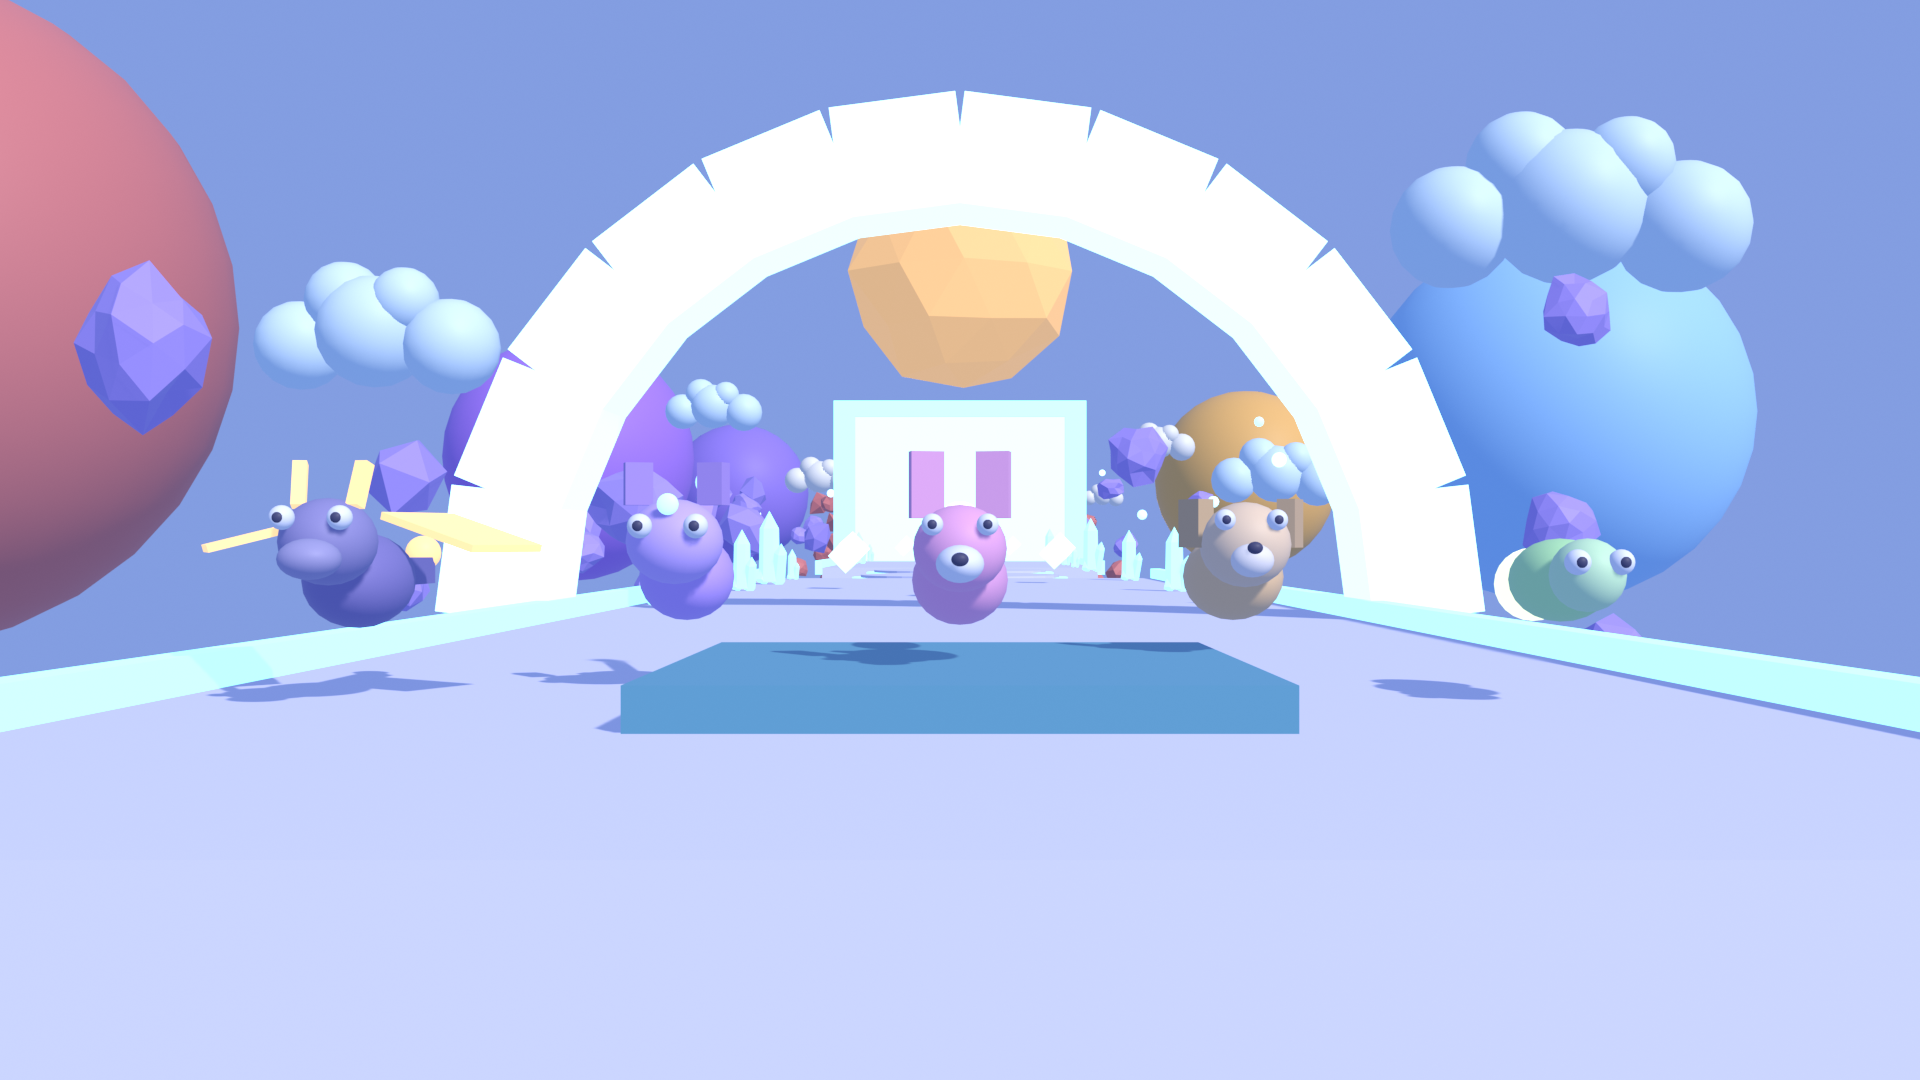
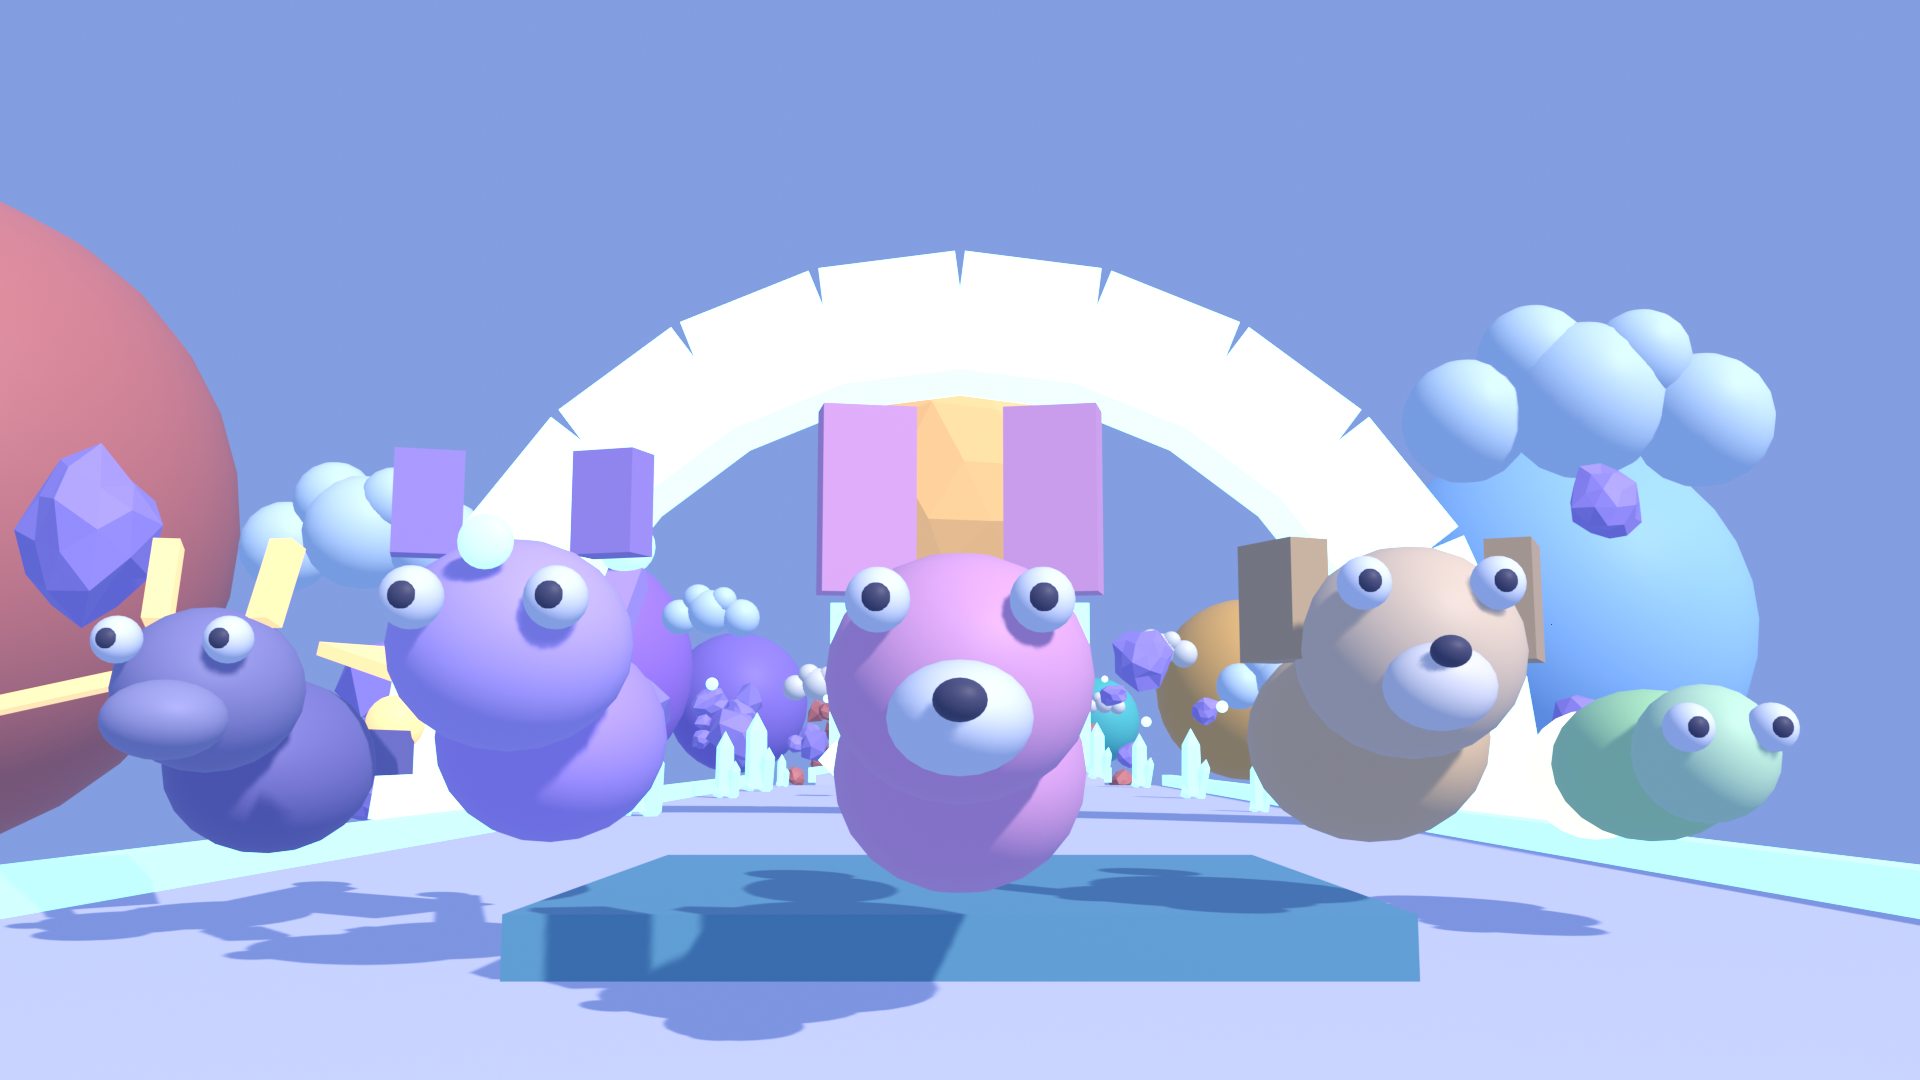
Renders: fixed companion hero shot, cropped collection shot, Aurora Reef shot; join toast for the weekly event
Claude-Session: https://claude.ai/code/session_01QYAiHaQucxxqAH1GBHQ5uW

diff --git a/blender/thumbnails/render_thumbs.py b/blender/thumbnails/render_thumbs.py
@@ -277,7 +277,7 @@ shots = {
     # runner and companion run toward a camera ahead of them (the companion's face is visible), the spawn arch behind them
     "v4_hero_companion": ((-7, Y + 5.5, 86), (0.5, Y + 5.8, 60), 32, (1920, 1080), (0, Y, 62), 0, "FRONTRUN:starfox"),
     "v5_hero_pup": ((-7, Y + 5.5, 86), (0.5, Y + 5.8, 60), 32, (1920, 1080), (0, Y, 62), 0, "FRONTRUN:cometpup"),
-    "v5_aurora_reef": ((26, Y + 16, gateZ[14] + 60), (0, Y + 4, gateZ[14] + 330), 28, (1920, 1080), None, 0, None),
+    "v5_aurora_reef": ((0, Y + 15, gateZ[14] + 30), (0, Y + 3, gateZ[14] + 300), 26, (1920, 1080), None, 0, None),
     "v4_mars_pup": ((18, Y + 11, gateZ[1] + 30), (0, Y + 2, gateZ[1] + 200), 26, (1920, 1080), (0, Y, gateZ[1] + 70), 2, "cometpup"),
     "v4_clouds_aerial": ((190, Y + 150, -150), (0, Y + 5, 800), 30, (1920, 1080), None, 0, None),
     "v4_collection": ((0, Y + 3.5, -52), (0, Y + 9, -10), 30, (1920, 1080), None, 0, "ALL"),
@@ -294,7 +294,7 @@ for name in want:
         n = len(comps)
         for k, cc in enumerate(comps):   # shallow V: the middle one is nearest, so the row fills the frame instead of leaving empty floor
             mid = (n - 1) / 2
-            extra += companion(cc, (k - mid) * 8.0, Y + 3.2 + (k % 2) * 0.5, -20 - (mid - abs(k - mid)) * 5, 2.3, face=-1)
+            extra += companion(cc, (k - mid) * 6.8, Y + 3.2 + (k % 2) * 0.5, -20 - (mid - abs(k - mid)) * 5, 2.3, face=-1)
     elif pet and pet.startswith("FRONT:"):   # a single companion facing the camera (icon)
         extra += companion(comp(pet[6:]), 0, Y + 4.2, -16, 2.2, face=-1)
     elif pet and pet.startswith("SIDERUN:"):   # side view: runner and companion run to the right, companion a little ahead and further from the camera

diff --git a/THUMBNAILS.md b/THUMBNAILS.md
@@ -96,3 +96,16 @@ Right after upload the game page showed the "processing" placeholder instead of 
 | (deleted) `v4_mars_pup` | rejected | The camera sat inside a rail and the frame was mostly flat color |
 
 The runner is still the blocky stand-in, and the companion models in Blender are approximations of the in-game primitives (proportions are close, shading and size in-engine will differ). Replace with real Studio captures once the update is live.
+
+
+## v5 renders (2026-11-03, Blender 4.0.2 in a Linux container; not uploaded)
+Same script (`blender/thumbnails/render_thumbs.py`), now with: a `RENDER_SCALE` env var for quick drafts (0.4 renders in about 8 min because the scene build dominates; full size about 12 min for 3 shots), a simple face on the stand-in runner, lens shift per shot, the 7th zone and 20 stages read from Config, and `FRONTRUN:` / `SIDERUN:` shot modes (runner plus companion). Run: `RENDER_OUT=promo/renders blender --background --factory-startup --python blender/thumbnails/render_thumbs.py -- v4_hero_companion v4_collection v5_aurora_reef`.
+
+| Render (in `promo/renders/`) | Verdict | Why |
+|---|---|---|
+| `v4_hero_companion.png` (fixed) | candidate thumbnail | The earlier shot was rejected because the camera was behind the runner and the Star Fox showed only a white tail blob. Now the camera is ahead: the runner and the fox run toward it, the fox's ears, eyes and nose are visible, the spawn arch fills the background. Weak spots: flat blue sky behind the arch and the stand-in runner's plain face; replace with a Studio capture when possible |
+| `v4_collection.png` (cropped) | candidate thumbnail | Same five companions, but now arranged in a shallow V (the middle one nearest) with the camera tilted up, so the pets fill the frame and the empty floor is gone (about 12% of the frame is floor, down from about 45%). The Void Dragon's wing tips are cut at the left edge |
+| `v5_aurora_reef.png` | candidate (needs a crop or a sky element) | The new Aurora Reef zone seen along the track: teal floor, teal rocks, clouds, gate ahead. About 40% of the frame is empty sky; use it as a detail-page image, not a homepage thumbnail |
+| `rejected/v4_hero_companion.png` | rejected (kept for the record) | The old behind-the-runner version |
+
+Tried and dropped in drafts: a side view of the runner (the blocky body reads as a thin stack of boxes from the side) and a collection shot made with lens shift (it cut the arch off).
